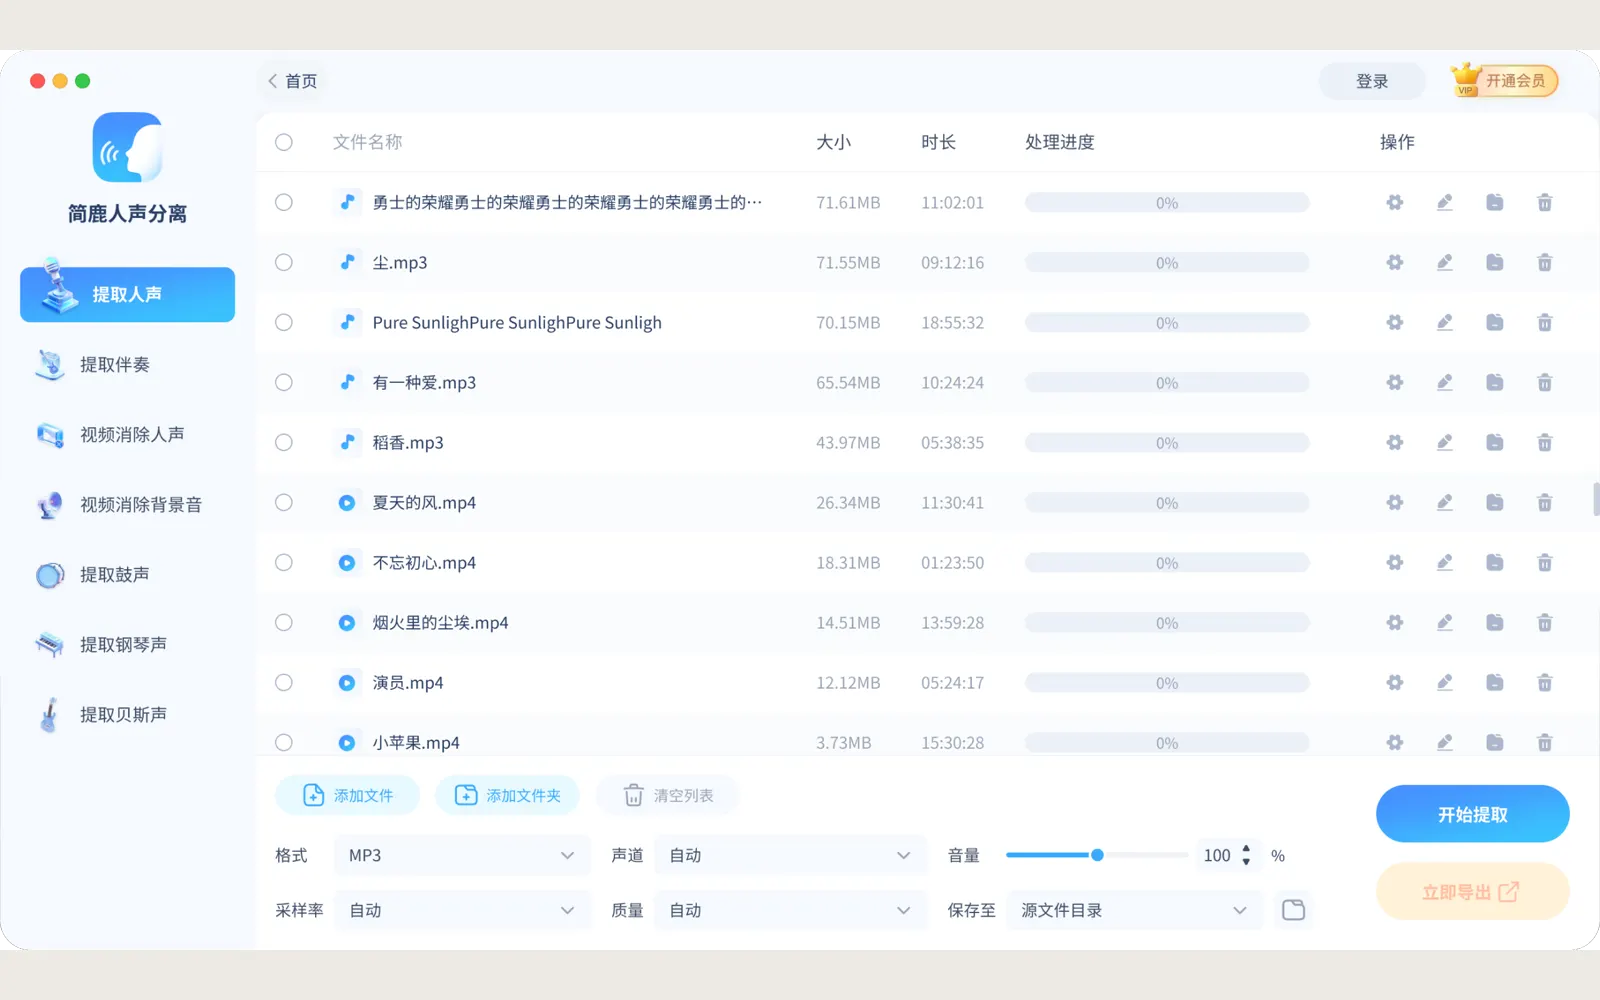
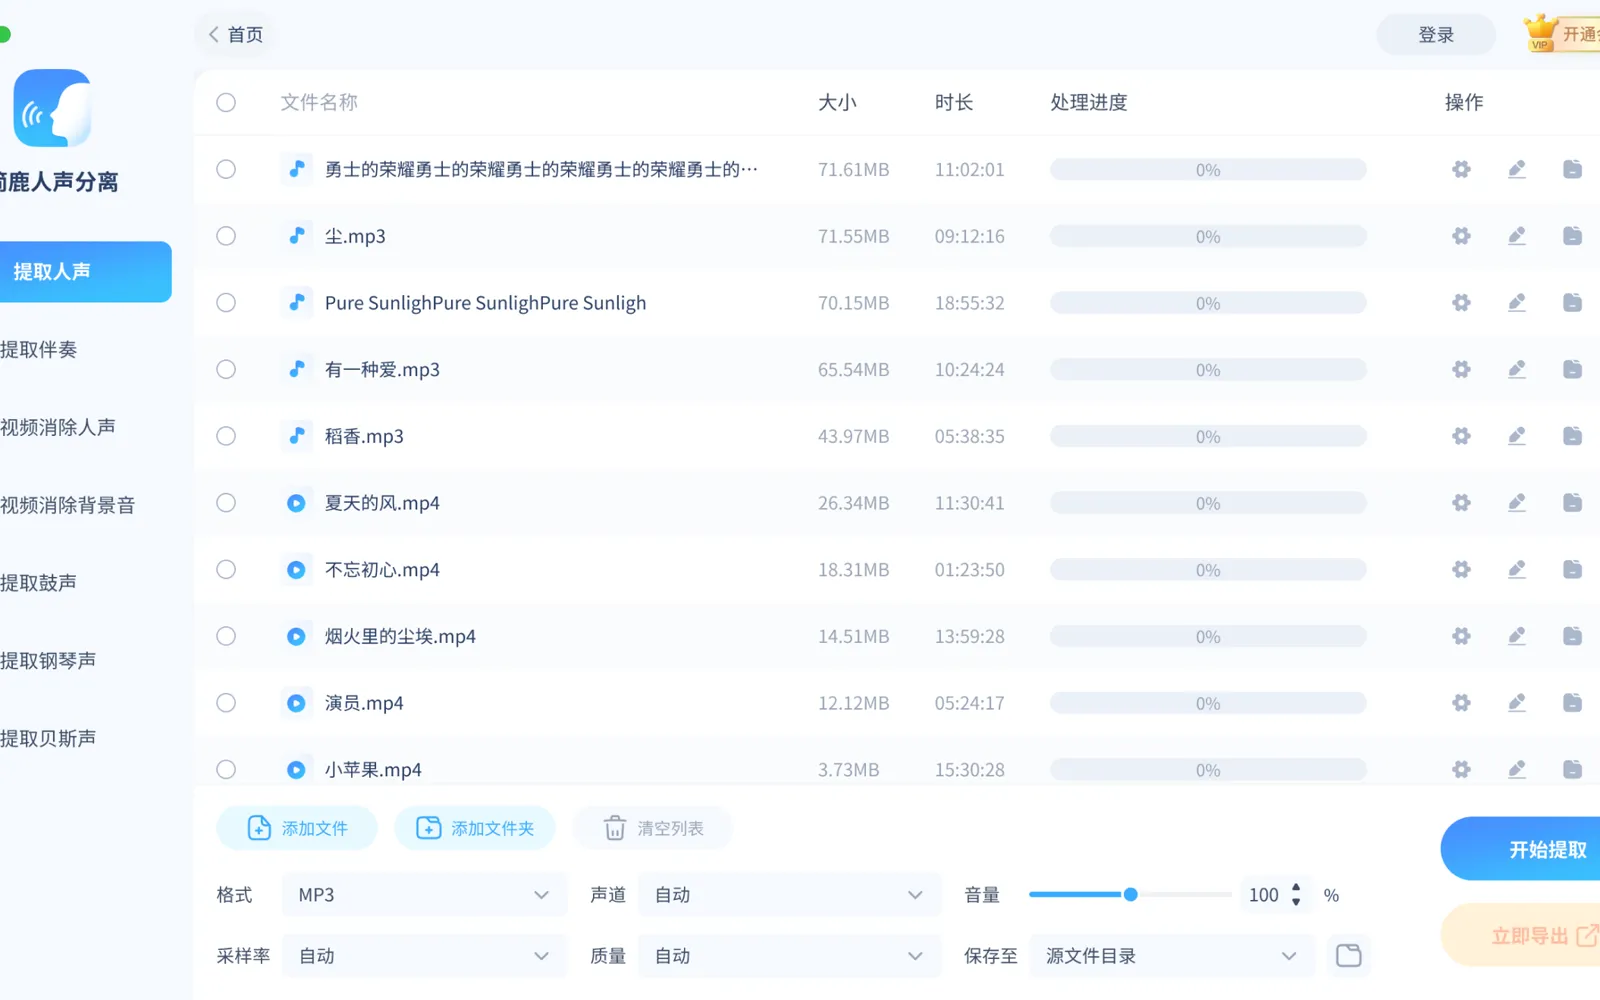
fix: normalize evidence image framing

diff --git a/src/index.css b/src/index.css
@@ -601,12 +601,12 @@ img {
 }
 
 .project__detail {
-  --evidence-inset: clamp(0.75rem, 1.8vw, 1.35rem);
+  --evidence-inset: clamp(0.45rem, 0.9vw, 0.75rem);
   position: relative;
   overflow: hidden;
   margin: 0;
   aspect-ratio: 8 / 5;
-  border-radius: 1.25rem;
+  border-radius: 1rem;
   background: #dedbd3;
 }
 
@@ -619,9 +619,9 @@ img {
   inset: var(--evidence-inset);
   width: calc(100% - var(--evidence-inset) - var(--evidence-inset));
   height: calc(100% - var(--evidence-inset) - var(--evidence-inset));
-  border-radius: 0.9rem;
+  border-radius: 0.75rem;
   object-fit: cover;
-  box-shadow: 0 1rem 2.6rem rgba(25, 24, 22, 0.16);
+  box-shadow: 0 0.8rem 2.2rem rgba(25, 24, 22, 0.14);
   will-change: transform, filter, opacity, clip-path;
 }
 
@@ -1653,12 +1653,12 @@ img {
   }
 
   .project__detail {
-    --evidence-inset: 0.65rem;
-    border-radius: 1rem;
+    --evidence-inset: 0.45rem;
+    border-radius: 0.85rem;
   }
 
   .project__detail img {
-    border-radius: 0.7rem;
+    border-radius: 0.6rem;
   }
 
   .project__cover-label {

diff --git a/DESIGN.md b/DESIGN.md
@@ -165,7 +165,7 @@ components:
 
 - 项目不是同规格卡片网格，而是完整宽度的叙事章节。
 - 主界面置于项目色舞台内；细节图单独浮起，旁边使用线性事实列表解释设计判断。
-- 可切换的界面证据不再整块铺满容器，而是等比裁切后悬浮在对应项目色的留白舞台中；内层软件窗口承担柔和阴影，外层舞台保持平面。
+- 可切换的界面证据不再整块铺满容器，而是先等比居中裁去多余画布，再悬浮在对应项目色的窄边舞台中；四向边距保持一致，内层软件窗口承担柔和阴影，外层舞台保持平面。
 
 ### Contact Link
 
